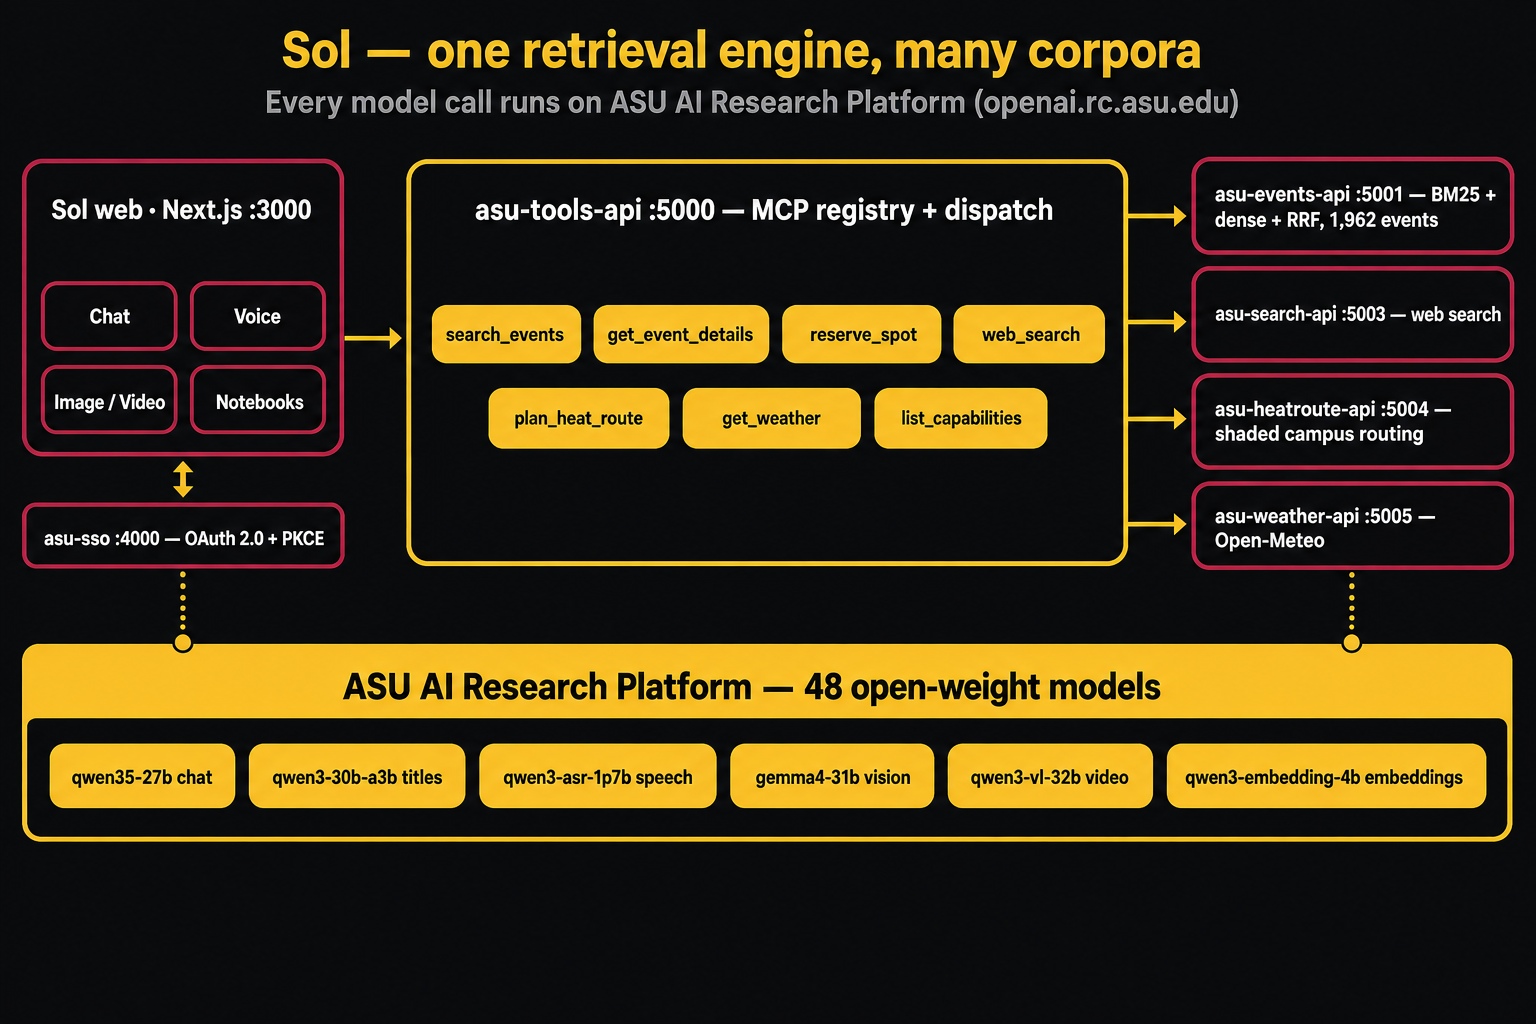
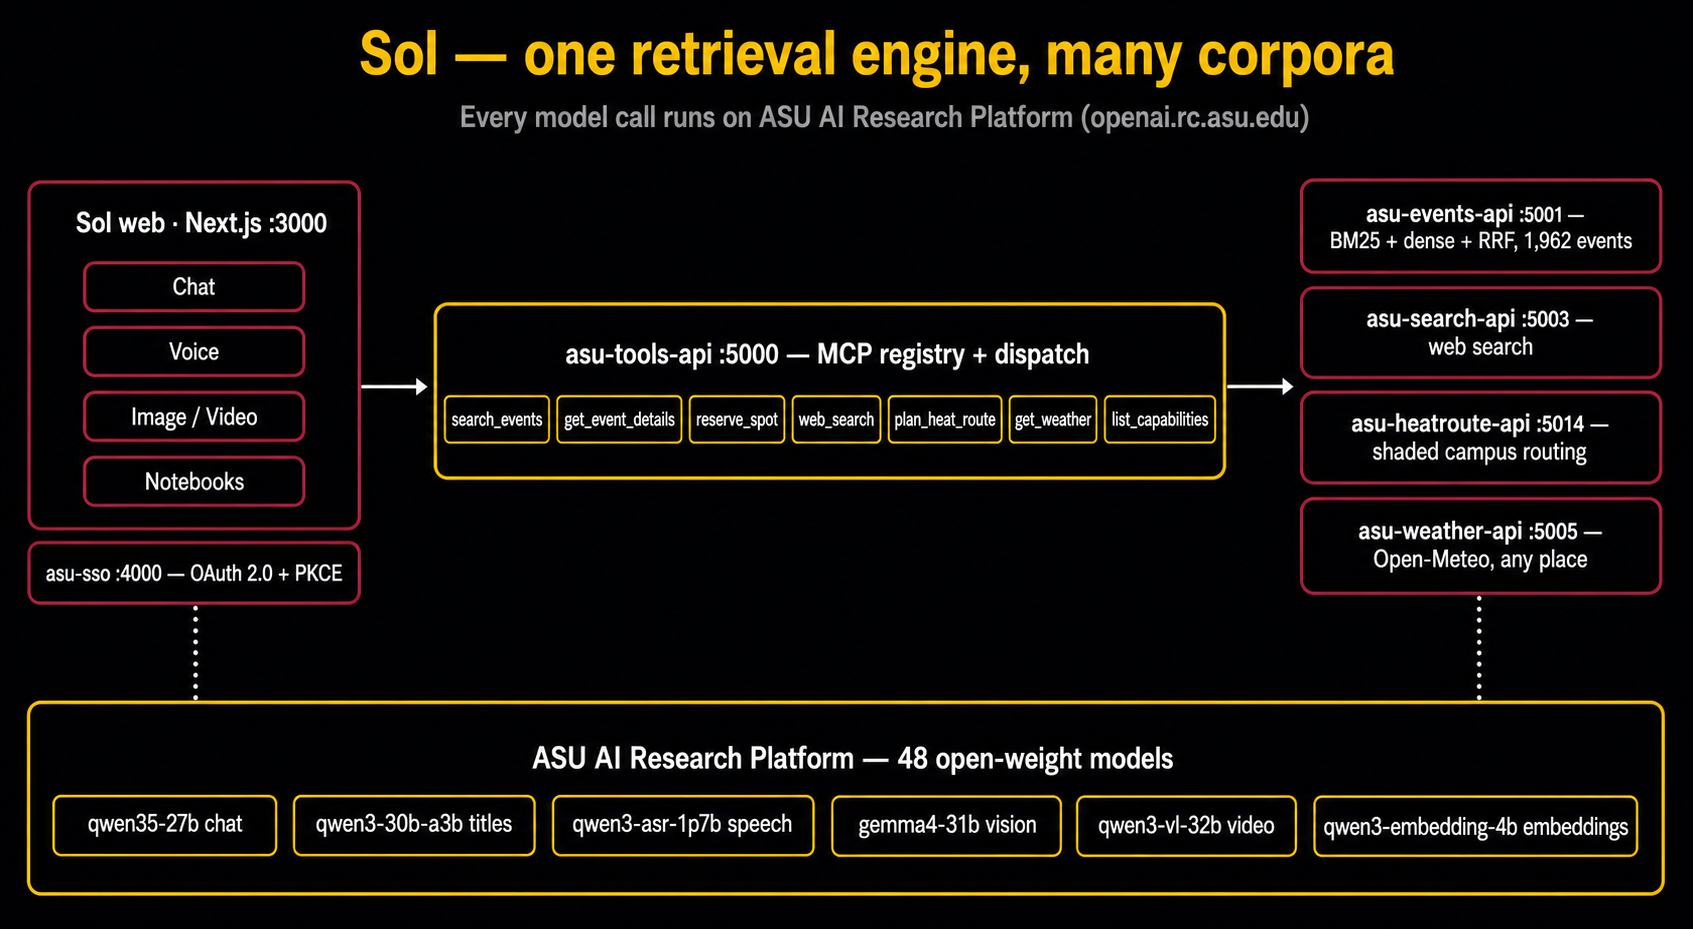
Weather row says any place; architecture diagram carries the real heatroute port
The service table still described get_weather as Tempe-only, which stopped
being true when place geocoding landed. The architecture illustration had
asu-heatroute-api on :5004; it listens on :5014 everywhere in the code, in
dev.sh, install.sh and services.json, so the diagram was the odd one out.
Redrawn with the correct port and the widened weather scope.

diff --git a/README.md b/README.md
@@ -17,7 +17,7 @@ external AI vendor is used at runtime.
 | `asu-events-api/`    | 5001 | Hybrid BM25 + dense retrieval over the events, mock RSVPs                                |
 | `asu-search-api/`    | 5003 | Optional Brave web search. Without a key it answers "not configured", nothing breaks     |
 | `asu-heatroute-api/` | 5014 | HeatRoute as a tool: heat-scored campus routes over pilot data, drawn inline in the chat |
-| `asu-weather-api/`   | 5005 | Tempe weather as a tool (Open-Meteo, keyless): hourly strip drawn inline in the chat     |
+| `asu-weather-api/`   | 5005 | Weather as a tool (Open-Meteo, keyless): Tempe by default, any named place geocoded      |
 
 ## Architecture
 
